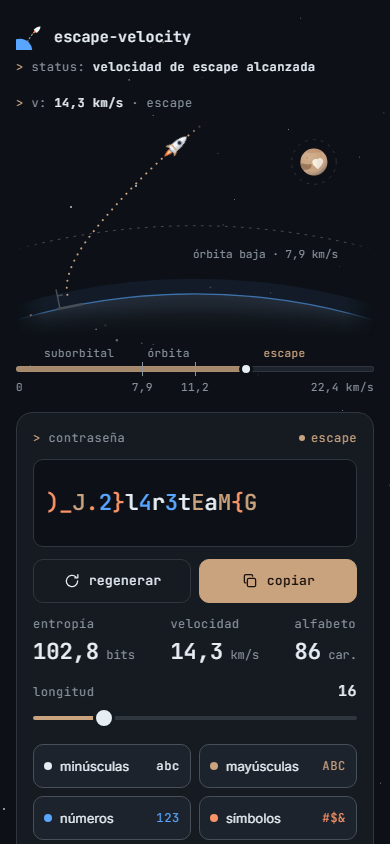
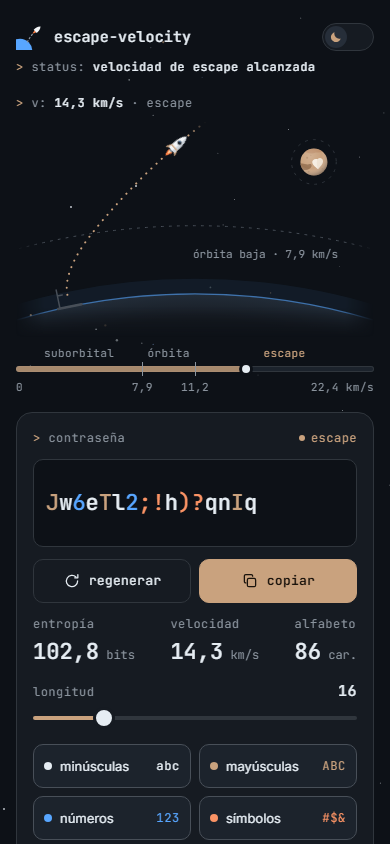
docs: mention the theme switch and refresh previews

Changed region(s): [[0.1231, 0.5853, 0.6769, 0.6161], [0.8308, 0.0308, 0.8923, 0.0616]]

diff --git a/README.md b/README.md
@@ -20,6 +20,7 @@
 - Shows its entropy in bits and turns it into a speed. Below 7.9 km/s the rocket flies a suborbital hop and falls back; from 7.9 km/s it stays in orbit; at 11.2 km/s it escapes towards Pluto.
 - The dotted trajectory, the rocket and the speed gauge react smoothly to every change.
 - Regenerate with one button, copy with another. Your settings survive a reload; the password never touches storage.
+- A switch in the header flips between dark and light mode: the same launch redrawn as a star chart on paper. The choice is remembered and shared across the Plutón series.
 
 ### What makes it technically interesting
 
@@ -61,6 +62,7 @@ It also works as-is on GitHub Pages.
 - Muestra su entropía en bits y la convierte en velocidad. Por debajo de 7,9 km/s el cohete hace un salto suborbital y vuelve a caer; desde 7,9 km/s queda en órbita; a 11,2 km/s escapa rumbo a Plutón.
 - La trayectoria punteada, el cohete y el velocímetro reaccionan con suavidad a cada cambio.
 - Un botón regenera y otro copia. La configuración sobrevive a una recarga; la contraseña nunca se guarda.
+- Un interruptor en la cabecera alterna entre modo oscuro y claro: el mismo lanzamiento redibujado como carta estelar sobre papel. La elección se recuerda y se comparte entre los proyectos de la serie Plutón.
 
 ### Qué lo hace interesante técnicamente
 
